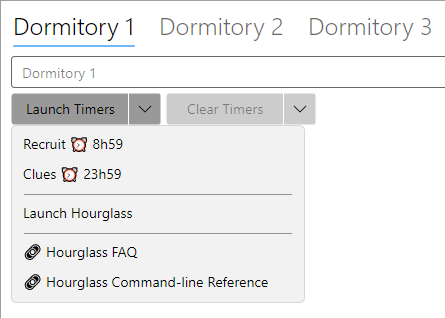
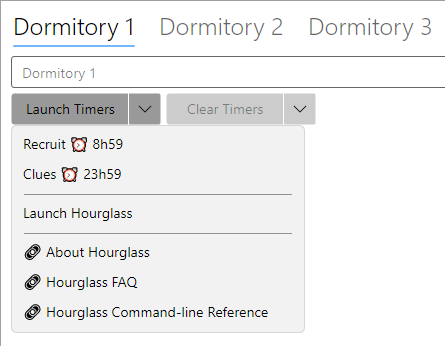
Update FAQ

Changed region(s): [[0.0, 0.0283, 1.0, 0.9623]]

diff --git a/README.md b/README.md
@@ -74,7 +74,8 @@ Ongoing [Arknights](https://arknights.wiki.gg) [Global](https://arknights.wiki.g
 
 Launch [Arknights](https://arknights.wiki.gg) countdown timers using [Hourglass](https://github.com/i2van/hourglass).
 
-* [Hourglass FAQ](https://chris.dziemborowicz.com/apps/hourglass/#faq)
+* [About Hourglass](https://github.com/i2van/hourglass/blob/develop/README.md)
+* [Hourglass FAQ](https://github.com/i2van/hourglass/blob/develop/FAQ.md)
 * [Hourglass command-line reference](https://github.com/i2van/hourglass/blob/develop/Hourglass/Resources/Usage.txt)
 
 ![Hourglass.linq](img/Hourglass.png)
